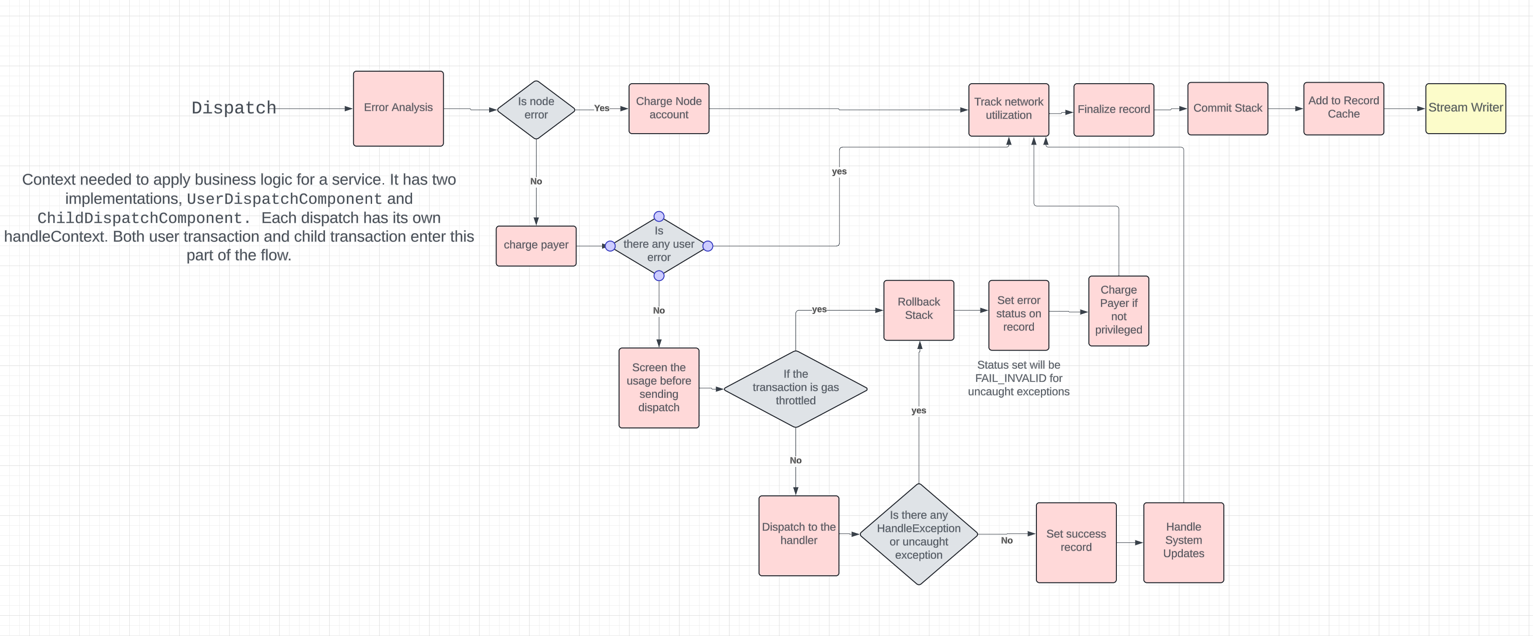
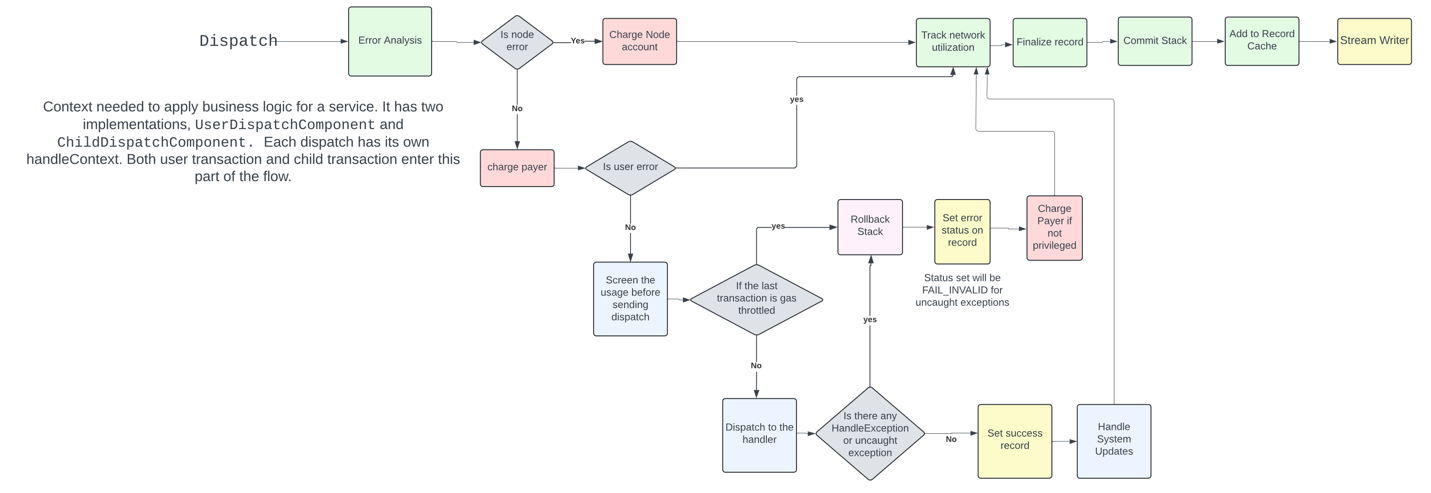
update design

diff --git a/hedera-node/docs/design/app/workflows.md b/hedera-node/docs/design/app/workflows.md
@@ -93,20 +93,21 @@ If at anytime an error occurs, a response with the error code is returned.
 When a platform transaction reaches consensus and needs to be handled, the `HandleWorkflow.handlePlatformTransaction()` 
 is called.
 Few terms that will be used in the following sections:
-1. **Dispatch**: The context needed for executing business logic of a service. This has two implementations 
-- one for user transactions scope called `UserTxnDispatch`
-- one for dispatched child transactions scope called `ChildDispatch`
+1. **Dispatch**: The context needed for executing business logic of a service. 
+All the transactions are handled by creating a Dispatch and executing business logic. This has two implementations 
+- user transactions scope called `UserTxnDispatch`
+- child transactions scope called `ChildDispatch`
 
-
-Objects created while handling the transaction belong to one of the following Dagger scopes. 
+#### Dagger Scopes
+All the objects created while handling the transaction belong to one of the following Dagger scopes. 
 - **Singleton** - Objects that are created once and used for the entire lifecycle of the application.
 Examples include the `NodeInfo` and `RecordListBuilder`.
-- **UserTxnScope** - Objects that are created once per each platform transaction. 
-Examples include the `Configuration`, `HederaState` and `TokenContext`. 
-They are provided in the modules [here](https://github.com/hashgraph/hedera-services/tree/develop/hedera-node/hedera-app/src/main/java/com/hedera/node/app/workflows/handle/flow/txn/modules) 
+- **UserTxnScope** - Objects that are created once for platform transaction. 
+Examples include the `Configuration`, `HederaState` and `TokenContext`.
+Dagger provides all the objects that can be constructed in this scope [here](https://github.com/hashgraph/hedera-services/tree/develop/hedera-node/hedera-app/src/main/java/com/hedera/node/app/workflows/handle/flow/txn/modules) 
 and [UserTxnComponent](https://github.com/hashgraph/hedera-services/blob/develop/hedera-node/hedera-app/src/main/java/com/hedera/node/app/workflows/handle/flow/txn/UserTransactionComponent.java)
 takes all the inputs that are needed to execute the user transaction.
-- **UserDispatchScope** - Objects that are created once for each user transaction dispatch. 
+- **UserDispatchScope** - Objects that are created once for each user transaction that will be dispatched. 
 Examples include the `SingleTransactionRecordBuilder` for user transaction and `FeeContext`.
 Dagger provides all the objects that can be constructed in this scope in [UserDispatchModule](https://github.com/hashgraph/hedera-services/blob/develop/hedera-node/hedera-app/src/main/java/com/hedera/node/app/workflows/handle/flow/dispatch/user/modules/UserDispatchModule.java) and `UserDispatchComponent`.
 and [UserDispatchComponent](https://github.com/hashgraph/hedera-services/blob/develop/hedera-node/hedera-app/src/main/java/com/hedera/node/app/workflows/handle/flow/dispatch/user/UserDispatchComponent.java)
@@ -122,62 +123,67 @@ takes all the inputs that are needed to create the child dispatch.
 
 #### HandleWorkflow overview:
 The `HandleWorkflow` class is responsible for handling the platform transaction and providing the record stream.
+The overall high level steps are as follows:
 
 1. Calls `BlockRecordManager` to update the new consensus time for the user transaction, puts the lastBlockInfo in state if needed.
 when blocks
-2. Calls `UserTxnWorkflow` is called to handle the transaction and provide record stream
+2. `UserTxnWorkflow` is called to handle the transaction and provide record stream
 3. Externalizes the record stream items
 4. Update metrics for the handled user transaction
 ![handle_basic_overview.png](handle_basic_overview.png)
 
-
 #### UserTxnWorkflow overview:
-1. If the transaction is from older software, the transaction will be skipped handling by calling `SkipHandleWorkflow`. 
+1. **SkipHandleWorkflow**: If the transaction is from older software, the transaction will be skipped handling by calling `SkipHandleWorkflow`. 
 This writes a record with `BUSY` status and adds to record cache
-2. If the transaction is from a valid software version, we call `DefaultHandleWorkflow`
+2. **DefaultHandleWorkflow**: If the transaction is from a valid software version, we call `DefaultHandleWorkflow`. This workflow 
+handles valid user transaction. It has the following steps:
    - Exports synthetic records of system accounts creation that need to be externalized on genesis start 
    - Process staking period hook that is responsible for staking updates and staking rewards distribution
    - Advances consensus clock by updating the last consensus time that node has handled
    - Expire schedules if any
    - Creates a `Dispatch` for the user transaction
    - Finalizes hollow accounts
-   - Gives the dispatch to the `DispatchProcessor` to process the dispatch. 
-     The `DispatchProcessor` will call the `Dispatch` to execute the business logic of the transaction.
-     This same code will be called for child transactions as well, since the user transaction and dispatch 
-     and child transaction dispatches are treated the same way.
+   - Gives the created dispatch to the `DispatchProcessor` to process it. 
+     The `DispatchProcessor` will execute the business logic for the dispatch. This is common logic that
+     is executed for all user and child transactions, since the user dispatch child dispatches are 
+     treated the same way to avoid duplicating any logic.
    
 ![user_txn_workflow.png](user_txn_workflow.png)
 
+
 #### DispatchProcessor overview:
 The `DispatchProcessor.processDispatch` will be called for user and child dispatches.
-1. Checks if there is any error by node or user.
-    - Checks the preHandleStatus is NODE_DUE_DILIGENCE_FAILURE.
-      If so, creates an error report where node pays the fees and returns.
-    - Verifies payer signature. If it is invalid or missing, creates an error report where
+1. **Error Validation:** Checks if there is any error by node or user. It validates the following:
+    - Checks the preHandleStatus is `NODE_DUE_DILIGENCE_FAILURE`.
+      If so, creates an error report with node error. So, node pays the fees and returns.
+    - Verifies payer signature. If it is invalid or missing, creates an error report with node error where
       node pays the fee and returns. 
-    - checks if the transaction is duplicate. If the transaction is duplicate on same node, 
-      creates error report where node pays the fee. If it is duplicate from other node, creates
-      an error report where payer pays the fee and returns.
-2. If there is node error report in 1, charges the node
-3. Else, charges the payer for the transaction.
-4. If it has not already failed in steps 2 and 3 the transaction is handled.
+    - Checks if the transaction is duplicate. If the transaction is duplicate on same node, 
+      creates error report with node error where node pays the fee. If it is duplicate from other node,
+      creates an error report with payer error where payer pays the fee and returns.
+2. If there is node error report in 1, charges the node. Steps 3-5 are skipped.
+3. Else, charges the payer for the transaction. 
+4. **Handling Transaction:** If it has not already failed in steps 2 and 3 the transaction is handled. 
+   The following steps are executed:
    - Checks if there is capacity to handle the transaction. This is only used for contract operations. 
-   If the previous transaction is gas throttled, this throws a `ThrottleException`
+     If the previous transaction is gas throttled, this throws a `ThrottleException` and next steps 
+     under 4 are skipped.
    - Dispatches the transaction to the appropriate handler with appropriate handleContext constructed
      based on the transaction scope. The handler will execute the business logic of the transaction.
    - Updates the record to SUCCESS status
-   - If it is a user transaction, notifies if system fileis updated and platform state is modified to
+   - If it is a user transaction, notifies if system file is updated and platform state is modified to
      the appropriate facilities
-5. If any HandleException is thrown in any of the sub-steps of 4, we rollback the complete stack and 
-   charge the payer. The payer is charged again because when we rollback full stack the previous charges to the payer
-are rolled back as well.
-6. If there is a `ThorttleException` thrown in step 4, we rollback complete stack and charge the payer without serviceFee.
-7. If there is any unhandled exception, we rollback the complete stack and charge the payer. Set the record to 
-`FAIL_INVALID` status. 
-8. Tracks network utilization for the transaction 
-9. Finalizes the record from state changes
-10. Commits all the changes to the state
-11. Updates any metrics that need to be updated
-12. Adds all the records to the record cache
+5. **Exception Handling:** When any exception is thrown in the steps under 4, the following steps are executed:
+   - If any HandleException is thrown, rolls back the complete stack and 
+     charges the payer. The payer is charged again because when stack is rolled back the previous
+     charges to the payer are rolled back as well. 
+   - If there is a `ThorttleException` thrown, stack is rolled back and payer is charged without serviceFee. 
+   - If there is any unhandled exception, stack is rolled back and payer is charged. The record is set to 
+    `FAIL_INVALID` status. 
+6. **Track Utilization:** Tracks network utilization for the transaction handled
+7. **Record Finalization:** Finalizes the record from state changes
+8. **Commit:** Commits all the changes to the state
+9. **Metrics Update:** Updates any metrics that need to be updated
+10. **Record Stream:** Adds all the records to the record cache
 
 ![dispatch_processor.png](dispatch_processor.png)
